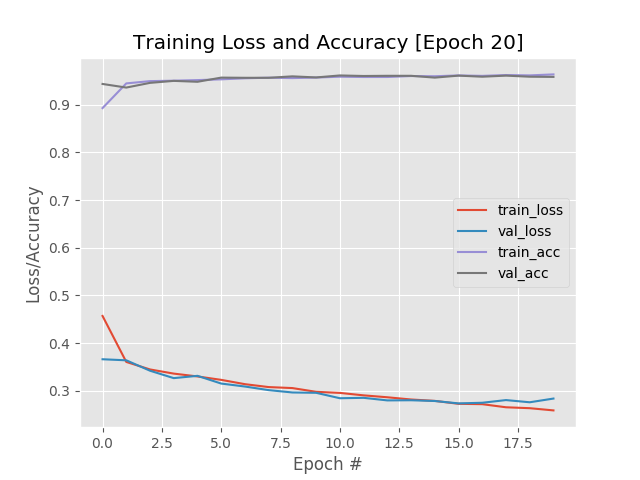
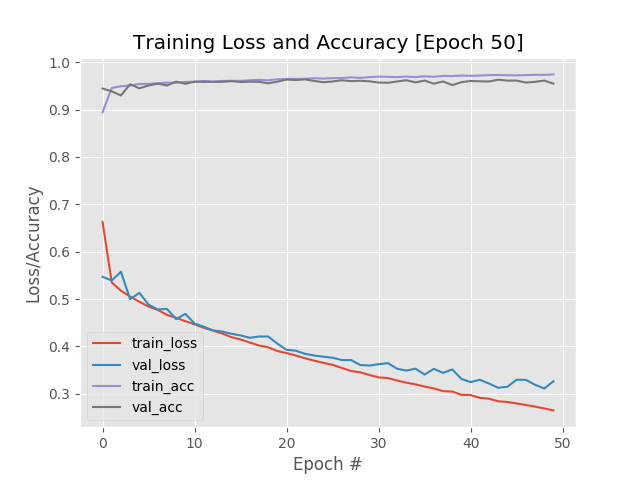
Most recent monitor files

diff --git a/utils/config.py b/utils/config.py
@@ -13,20 +13,20 @@ NUM_CLASSES = 2
 
 EPOCHS = 50
 BATCH_SIZE = 64
-LEARNING_RATE = 0.1
+LEARNING_RATE = 0.075
 SECOND_LR = 0.005
-MOMENTUM =False 
+MOMENTUM =0.9
 NETWORK_REG = 0.0005
 DECAY = LEARNING_RATE/EPOCHS
-STAGES = (3,3,3)
-FILTERS = (64,128,128,256)
+STAGES = (2,4,6)
+FILTERS = (64,128,256,512)
 
 FINE_TUNE_BOOL = False
 FCH1 = 0
 FCH2 = 0
 
 
-EXPERIMENT_NAME = "./output/experiment-1/"
+EXPERIMENT_NAME = "./output/experiment-2/"
 CHECKPOINTS = EXPERIMENT_NAME + "checkpoints/"
 MONITOR_PATH_PNG = EXPERIMENT_NAME + "monitor.png"
 MONITOR_PATH_JSON = EXPERIMENT_NAME + "monitor.json"
